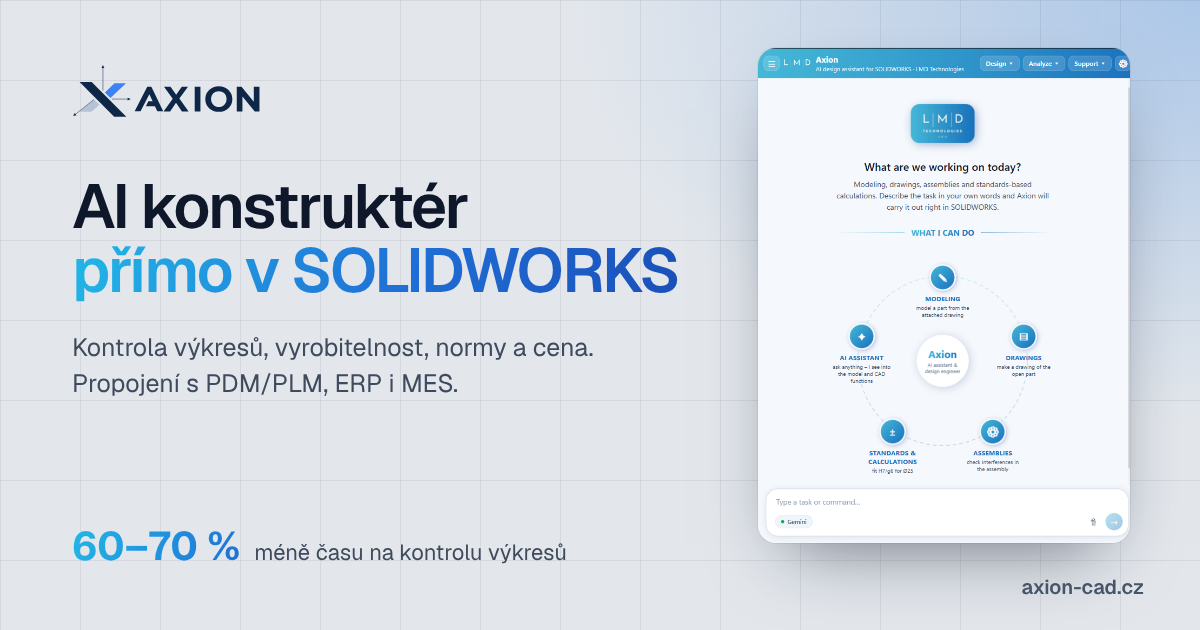
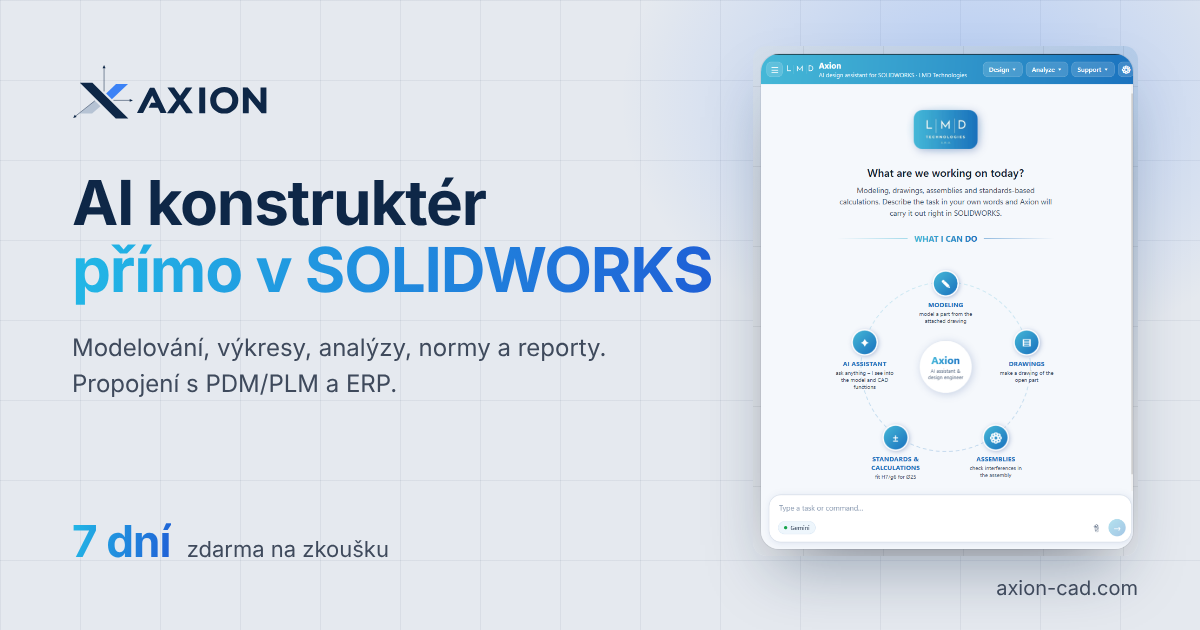
SEO: Axion jako AI asistent pro CAD (titulky a popisy bez důrazu na kontrolu výkresů), nové náhledy pro sdílení (og)
Claude-Session: https://claude.ai/code/session_01F1eiTEGDywuvSK7PdNHhFV

diff --git a/index.html b/index.html
@@ -3,8 +3,8 @@
 <head>
 <meta charset="utf-8">
 <!-- seo -->
-<title>AI assistant for SOLIDWORKS – drawing checks | Axion</title>
-<meta name="description" content="Axion is an AI design engineer inside SOLIDWORKS: drawing checks, manufacturability, standards and cost, connected to PDM/PLM, ERP and MES. Up to 60–70 % less time checking drawings.">
+<title>Axion – AI assistant for CAD in SOLIDWORKS</title>
+<meta name="description" content="Axion is an AI design assistant for CAD right inside SOLIDWORKS: modelling from text, images and drawings, drawings, analyses, standards and reports, connected to PDM/PLM and ERP. Try it free for 7 days.">
 <link rel="canonical" href="https://axion-cad.com/">
 <link rel="alternate" hreflang="en" href="https://axion-cad.com/">
 <link rel="alternate" hreflang="cs" href="https://axion-cad.com/cs/">
@@ -12,17 +12,17 @@
 <meta property="og:type" content="website">
 <meta property="og:site_name" content="Axion">
 <meta property="og:locale" content="en_US">
-<meta property="og:title" content="AI assistant for SOLIDWORKS – drawing checks | Axion">
-<meta property="og:description" content="Axion is an AI design engineer inside SOLIDWORKS: drawing checks, manufacturability, standards and cost, connected to PDM/PLM, ERP and MES. Up to 60–70 % less time checking drawings.">
+<meta property="og:title" content="Axion – AI assistant for CAD in SOLIDWORKS">
+<meta property="og:description" content="Axion is an AI design assistant for CAD right inside SOLIDWORKS: modelling from text, images and drawings, drawings, analyses, standards and reports, connected to PDM/PLM and ERP. Try it free for 7 days.">
 <meta property="og:url" content="https://axion-cad.com/">
-<meta property="og:image" content="https://axion-cad.com/assets/og-en.png">
+<meta property="og:image" content="https://axion-cad.com/assets/og-en.png?v=2">
 <meta property="og:image:width" content="1200">
 <meta property="og:image:height" content="630">
 <meta name="twitter:card" content="summary_large_image">
 <link rel="icon" href="assets/favicon.svg" type="image/svg+xml">
 <link rel="apple-touch-icon" href="assets/apple-touch-icon.png">
 <meta name="theme-color" content="#1F6FD6">
-<script type="application/ld+json">{"@context": "https://schema.org", "@graph": [{"@type": "Organization", "@id": "https://www.lmd-technologies.cz/#org", "name": "LMD Technologies s.r.o.", "url": "https://www.lmd-technologies.cz", "email": "info@lmd-technologies.cz", "logo": "https://axion-cad.com/assets/img/lmd-technologies-s-r-o.png", "address": {"@type": "PostalAddress", "addressLocality": "Praha", "addressCountry": "CZ"}}, {"@type": "WebSite", "name": "Axion", "url": "https://axion-cad.com/", "inLanguage": "en", "publisher": {"@id": "https://www.lmd-technologies.cz/#org"}}, {"@type": "SoftwareApplication", "name": "Axion", "applicationCategory": "DesignApplication", "operatingSystem": "Windows", "url": "https://axion-cad.com/", "inLanguage": ["cs", "en"], "description": "Axion is an AI design engineer inside SOLIDWORKS: drawing checks, manufacturability, standards and cost, connected to PDM/PLM, ERP and MES. Up to 60–70 % less time checking drawings.", "publisher": {"@id": "https://www.lmd-technologies.cz/#org"}, "image": "https://axion-cad.com/assets/og-en.png"}]}</script>
+<script type="application/ld+json">{"@context": "https://schema.org", "@graph": [{"@type": "Organization", "@id": "https://www.lmd-technologies.cz/#org", "name": "LMD Technologies s.r.o.", "url": "https://www.lmd-technologies.cz", "email": "info@lmd-technologies.cz", "logo": "https://axion-cad.com/assets/img/lmd-technologies-s-r-o.png", "address": {"@type": "PostalAddress", "addressLocality": "Praha", "addressCountry": "CZ"}}, {"@type": "WebSite", "name": "Axion", "url": "https://axion-cad.com/", "inLanguage": "en", "publisher": {"@id": "https://www.lmd-technologies.cz/#org"}}, {"@type": "SoftwareApplication", "name": "Axion", "applicationCategory": "DesignApplication", "operatingSystem": "Windows", "url": "https://axion-cad.com/", "inLanguage": ["cs", "en"], "description": "Axion is an AI design assistant for CAD right inside SOLIDWORKS: modelling from text, images and drawings, drawings, analyses, standards and reports, connected to PDM/PLM and ERP. Try it free for 7 days.", "publisher": {"@id": "https://www.lmd-technologies.cz/#org"}, "image": "https://axion-cad.com/assets/og-en.png"}]}</script>
 <meta name="seznam-wmt" content="bSFUqpU7w6FnbOcUHECLMPJb2pOOMLrl">
 <!-- /seo -->
 <meta name="viewport" content="width=device-width,initial-scale=1,viewport-fit=cover">

diff --git a/cs/index.html b/cs/index.html
@@ -4,8 +4,8 @@
 <head>
 <meta charset="utf-8"/>
 <!-- seo -->
-<title>AI asistent pro SOLIDWORKS – kontrola výkresů | Axion</title>
-<meta name="description" content="Axion je AI konstruktér přímo v SOLIDWORKS: kontrola výkresů, vyrobitelnost, normy a cena, propojení s PDM/PLM, ERP a MES. O 60–70 % méně času na kontrolu výkresů.">
+<title>Axion – AI asistent pro CAD v SOLIDWORKS</title>
+<meta name="description" content="Axion je AI asistent pro CAD přímo v SOLIDWORKS: modelování z textu, obrázku i výkresu, výkresy, analýzy, normy a reporty, propojení s PDM/PLM a ERP. Vyzkoušejte ho 7 dní zdarma.">
 <link rel="canonical" href="https://axion-cad.com/cs/">
 <link rel="alternate" hreflang="en" href="https://axion-cad.com/">
 <link rel="alternate" hreflang="cs" href="https://axion-cad.com/cs/">
@@ -13,17 +13,17 @@
 <meta property="og:type" content="website">
 <meta property="og:site_name" content="Axion">
 <meta property="og:locale" content="cs_CZ">
-<meta property="og:title" content="AI asistent pro SOLIDWORKS – kontrola výkresů | Axion">
-<meta property="og:description" content="Axion je AI konstruktér přímo v SOLIDWORKS: kontrola výkresů, vyrobitelnost, normy a cena, propojení s PDM/PLM, ERP a MES. O 60–70 % méně času na kontrolu výkresů.">
+<meta property="og:title" content="Axion – AI asistent pro CAD v SOLIDWORKS">
+<meta property="og:description" content="Axion je AI asistent pro CAD přímo v SOLIDWORKS: modelování z textu, obrázku i výkresu, výkresy, analýzy, normy a reporty, propojení s PDM/PLM a ERP. Vyzkoušejte ho 7 dní zdarma.">
 <meta property="og:url" content="https://axion-cad.com/cs/">
-<meta property="og:image" content="https://axion-cad.com/assets/og-cs.png">
+<meta property="og:image" content="https://axion-cad.com/assets/og-cs.png?v=2">
 <meta property="og:image:width" content="1200">
 <meta property="og:image:height" content="630">
 <meta name="twitter:card" content="summary_large_image">
 <link rel="icon" href="../assets/favicon.svg" type="image/svg+xml">
 <link rel="apple-touch-icon" href="../assets/apple-touch-icon.png">
 <meta name="theme-color" content="#1F6FD6">
-<script type="application/ld+json">{"@context": "https://schema.org", "@graph": [{"@type": "Organization", "@id": "https://www.lmd-technologies.cz/#org", "name": "LMD Technologies s.r.o.", "url": "https://www.lmd-technologies.cz", "email": "info@lmd-technologies.cz", "logo": "https://axion-cad.com/assets/img/lmd-technologies-s-r-o.png", "address": {"@type": "PostalAddress", "addressLocality": "Praha", "addressCountry": "CZ"}}, {"@type": "WebSite", "name": "Axion", "url": "https://axion-cad.com/cs/", "inLanguage": "cs", "publisher": {"@id": "https://www.lmd-technologies.cz/#org"}}, {"@type": "SoftwareApplication", "name": "Axion", "applicationCategory": "DesignApplication", "operatingSystem": "Windows", "url": "https://axion-cad.com/cs/", "inLanguage": ["cs", "en"], "description": "Axion je AI konstruktér přímo v SOLIDWORKS: kontrola výkresů, vyrobitelnost, normy a cena, propojení s PDM/PLM, ERP a MES. O 60–70 % méně času na kontrolu výkresů.", "publisher": {"@id": "https://www.lmd-technologies.cz/#org"}, "image": "https://axion-cad.com/assets/og-cs.png"}]}</script>
+<script type="application/ld+json">{"@context": "https://schema.org", "@graph": [{"@type": "Organization", "@id": "https://www.lmd-technologies.cz/#org", "name": "LMD Technologies s.r.o.", "url": "https://www.lmd-technologies.cz", "email": "info@lmd-technologies.cz", "logo": "https://axion-cad.com/assets/img/lmd-technologies-s-r-o.png", "address": {"@type": "PostalAddress", "addressLocality": "Praha", "addressCountry": "CZ"}}, {"@type": "WebSite", "name": "Axion", "url": "https://axion-cad.com/cs/", "inLanguage": "cs", "publisher": {"@id": "https://www.lmd-technologies.cz/#org"}}, {"@type": "SoftwareApplication", "name": "Axion", "applicationCategory": "DesignApplication", "operatingSystem": "Windows", "url": "https://axion-cad.com/cs/", "inLanguage": ["cs", "en"], "description": "Axion je AI asistent pro CAD přímo v SOLIDWORKS: modelování z textu, obrázku i výkresu, výkresy, analýzy, normy a reporty, propojení s PDM/PLM a ERP. Vyzkoušejte ho 7 dní zdarma.", "publisher": {"@id": "https://www.lmd-technologies.cz/#org"}, "image": "https://axion-cad.com/assets/og-cs.png"}]}</script>
 <meta name="seznam-wmt" content="bSFUqpU7w6FnbOcUHECLMPJb2pOOMLrl">
 <!-- /seo -->
 <meta content="width=device-width,initial-scale=1,viewport-fit=cover" name="viewport"/>

diff --git a/features/index.html b/features/index.html
@@ -3,8 +3,8 @@
 <head>
 <meta charset="utf-8">
 <!-- seo -->
-<title>Features: drawing checks, manufacturability, standards | Axion</title>
-<meta name="description" content="What Axion does in SOLIDWORKS: reads live geometry and drawings, checks standards (ISO 2768, ISO 286) and manufacturability, estimates cost, generates drawings and finds similar parts.">
+<title>Features: AI modelling, drawings, analyses and standards | Axion</title>
+<meta name="description" content="What Axion does in SOLIDWORKS: models parts from text, images and drawings, generates drawings, analyses manufacturability and standards (ISO 2768, ISO 286), creates reports, finds similar parts and sends models to your phone in AR.">
 <link rel="canonical" href="https://axion-cad.com/features/">
 <link rel="alternate" hreflang="en" href="https://axion-cad.com/features/">
 <link rel="alternate" hreflang="cs" href="https://axion-cad.com/cs/funkce/">
@@ -12,10 +12,10 @@
 <meta property="og:type" content="website">
 <meta property="og:site_name" content="Axion">
 <meta property="og:locale" content="en_US">
-<meta property="og:title" content="Features: drawing checks, manufacturability, standards | Axion">
-<meta property="og:description" content="What Axion does in SOLIDWORKS: reads live geometry and drawings, checks standards (ISO 2768, ISO 286) and manufacturability, estimates cost, generates drawings and finds similar parts.">
+<meta property="og:title" content="Features: AI modelling, drawings, analyses and standards | Axion">
+<meta property="og:description" content="What Axion does in SOLIDWORKS: models parts from text, images and drawings, generates drawings, analyses manufacturability and standards (ISO 2768, ISO 286), creates reports, finds similar parts and sends models to your phone in AR.">
 <meta property="og:url" content="https://axion-cad.com/features/">
-<meta property="og:image" content="https://axion-cad.com/assets/og-en.png">
+<meta property="og:image" content="https://axion-cad.com/assets/og-en.png?v=2">
 <meta property="og:image:width" content="1200">
 <meta property="og:image:height" content="630">
 <meta name="twitter:card" content="summary_large_image">

diff --git a/cs/funkce/index.html b/cs/funkce/index.html
@@ -4,8 +4,8 @@
 <head>
 <meta charset="utf-8"/>
 <!-- seo -->
-<title>Funkce: kontrola výkresů, vyrobitelnost, normy | Axion</title>
-<meta name="description" content="Co Axion umí v SOLIDWORKS: čte živou geometrii a výkresy, kontroluje normy (ISO 2768, ISO 286) a vyrobitelnost, odhadne cenu, generuje výkresy a najde podobné díly.">
+<title>Funkce: AI modelování, výkresy, analýzy a normy | Axion</title>
+<meta name="description" content="Co Axion umí v SOLIDWORKS: vymodeluje díl z textu, obrázku i výkresu, vygeneruje výkres, posoudí vyrobitelnost a normy (ISO 2768, ISO 286), připraví report, najde podobné díly a pošle model do telefonu v AR.">
 <link rel="canonical" href="https://axion-cad.com/cs/funkce/">
 <link rel="alternate" hreflang="en" href="https://axion-cad.com/features/">
 <link rel="alternate" hreflang="cs" href="https://axion-cad.com/cs/funkce/">
@@ -13,10 +13,10 @@
 <meta property="og:type" content="website">
 <meta property="og:site_name" content="Axion">
 <meta property="og:locale" content="cs_CZ">
-<meta property="og:title" content="Funkce: kontrola výkresů, vyrobitelnost, normy | Axion">
-<meta property="og:description" content="Co Axion umí v SOLIDWORKS: čte živou geometrii a výkresy, kontroluje normy (ISO 2768, ISO 286) a vyrobitelnost, odhadne cenu, generuje výkresy a najde podobné díly.">
+<meta property="og:title" content="Funkce: AI modelování, výkresy, analýzy a normy | Axion">
+<meta property="og:description" content="Co Axion umí v SOLIDWORKS: vymodeluje díl z textu, obrázku i výkresu, vygeneruje výkres, posoudí vyrobitelnost a normy (ISO 2768, ISO 286), připraví report, najde podobné díly a pošle model do telefonu v AR.">
 <meta property="og:url" content="https://axion-cad.com/cs/funkce/">
-<meta property="og:image" content="https://axion-cad.com/assets/og-cs.png">
+<meta property="og:image" content="https://axion-cad.com/assets/og-cs.png?v=2">
 <meta property="og:image:width" content="1200">
 <meta property="og:image:height" content="630">
 <meta name="twitter:card" content="summary_large_image">

diff --git a/cs/z-praxe/index.html b/cs/z-praxe/index.html
@@ -4,7 +4,7 @@
 <head>
 <meta charset="utf-8"/>
 <!-- seo -->
-<title>Z praxe: AI kontrola výkresu a návrhu dílu | Axion</title>
+<title>Z praxe: Axion na skutečných dílech a výkresech | Axion</title>
 <meta name="description" content="Needitované odpovědi Axionu na skutečných dílech a výkresech: vyrobitelnost hřídele, chyby v GD&T, kontrola plechového dílu a modelování z textu nebo obrázku.">
 <link rel="canonical" href="https://axion-cad.com/cs/z-praxe/">
 <link rel="alternate" hreflang="en" href="https://axion-cad.com/cases/">
@@ -13,10 +13,10 @@
 <meta property="og:type" content="website">
 <meta property="og:site_name" content="Axion">
 <meta property="og:locale" content="cs_CZ">
-<meta property="og:title" content="Z praxe: AI kontrola výkresu a návrhu dílu | Axion">
+<meta property="og:title" content="Z praxe: Axion na skutečných dílech a výkresech | Axion">
 <meta property="og:description" content="Needitované odpovědi Axionu na skutečných dílech a výkresech: vyrobitelnost hřídele, chyby v GD&T, kontrola plechového dílu a modelování z textu nebo obrázku.">
 <meta property="og:url" content="https://axion-cad.com/cs/z-praxe/">
-<meta property="og:image" content="https://axion-cad.com/assets/og-cs.png">
+<meta property="og:image" content="https://axion-cad.com/assets/og-cs.png?v=2">
 <meta property="og:image:width" content="1200">
 <meta property="og:image:height" content="630">
 <meta name="twitter:card" content="summary_large_image">

diff --git a/cases/index.html b/cases/index.html
@@ -3,7 +3,7 @@
 <head>
 <meta charset="utf-8">
 <!-- seo -->
-<title>Real cases: AI drawing review and design checks | Axion</title>
+<title>Real cases: Axion on real parts and drawings | Axion</title>
 <meta name="description" content="Unedited Axion answers on real parts and drawings: manufacturability of a shaft drawing, GD&T errors, sheet-metal design review and modeling from text or an image.">
 <link rel="canonical" href="https://axion-cad.com/cases/">
 <link rel="alternate" hreflang="en" href="https://axion-cad.com/cases/">
@@ -12,10 +12,10 @@
 <meta property="og:type" content="website">
 <meta property="og:site_name" content="Axion">
 <meta property="og:locale" content="en_US">
-<meta property="og:title" content="Real cases: AI drawing review and design checks | Axion">
+<meta property="og:title" content="Real cases: Axion on real parts and drawings | Axion">
 <meta property="og:description" content="Unedited Axion answers on real parts and drawings: manufacturability of a shaft drawing, GD&T errors, sheet-metal design review and modeling from text or an image.">
 <meta property="og:url" content="https://axion-cad.com/cases/">
-<meta property="og:image" content="https://axion-cad.com/assets/og-en.png">
+<meta property="og:image" content="https://axion-cad.com/assets/og-en.png?v=2">
 <meta property="og:image:width" content="1200">
 <meta property="og:image:height" content="630">
 <meta name="twitter:card" content="summary_large_image">

diff --git a/cs/nasazeni/index.html b/cs/nasazeni/index.html
@@ -16,7 +16,7 @@
 <meta property="og:title" content="Nasazení AI do konstrukce na míru a bezpečně | Axion">
 <meta property="og:description" content="Jak Axion stavíme pro vaši firmu: úvodní schůzka, pilot na vašich dílech, nasazení. Lokálně od základu, vlastní API klíč k AI (Claude, ChatGPT, Gemini, Mistral) a nízké náklady.">
 <meta property="og:url" content="https://axion-cad.com/cs/nasazeni/">
-<meta property="og:image" content="https://axion-cad.com/assets/og-cs.png">
+<meta property="og:image" content="https://axion-cad.com/assets/og-cs.png?v=2">
 <meta property="og:image:width" content="1200">
 <meta property="og:image:height" content="630">
 <meta name="twitter:card" content="summary_large_image">

diff --git a/integrations/index.html b/integrations/index.html
@@ -15,7 +15,7 @@
 <meta property="og:title" content="Connect SOLIDWORKS with PDM/PLM, ERP (SAP, Helios) and MES | Axion">
 <meta property="og:description" content="Axion brings CAD, PDM/PLM, ERP (SAP, Helios), MES, production, quality and documentation together in one interface. It writes only to PDM/PLM and reads other systems via API.">
 <meta property="og:url" content="https://axion-cad.com/integrations/">
-<meta property="og:image" content="https://axion-cad.com/assets/og-en.png">
+<meta property="og:image" content="https://axion-cad.com/assets/og-en.png?v=2">
 <meta property="og:image:width" content="1200">
 <meta property="og:image:height" content="630">
 <meta name="twitter:card" content="summary_large_image">

diff --git a/deployment/index.html b/deployment/index.html
@@ -15,7 +15,7 @@
 <meta property="og:title" content="Deploying AI in engineering, tailored and local-first | Axion">
 <meta property="og:description" content="How Axion is built for your company: kick-off, pilot on your parts, rollout. Local-first security, your own AI API key (Claude, ChatGPT, Gemini, Mistral) and low running costs.">
 <meta property="og:url" content="https://axion-cad.com/deployment/">
-<meta property="og:image" content="https://axion-cad.com/assets/og-en.png">
+<meta property="og:image" content="https://axion-cad.com/assets/og-en.png?v=2">
 <meta property="og:image:width" content="1200">
 <meta property="og:image:height" content="630">
 <meta name="twitter:card" content="summary_large_image">

diff --git a/cs/propojeni/index.html b/cs/propojeni/index.html
@@ -16,7 +16,7 @@
 <meta property="og:title" content="Propojení SOLIDWORKS s PDM/PLM, ERP (SAP, Helios) a MES | Axion">
 <meta property="og:description" content="Axion spojí CAD, PDM/PLM, ERP (SAP, Helios), MES, výrobu, kvalitu i dokumentaci v jednom rozhraní. Zapisuje jen do PDM/PLM, ostatní systémy čte přes API.">
 <meta property="og:url" content="https://axion-cad.com/cs/propojeni/">
-<meta property="og:image" content="https://axion-cad.com/assets/og-cs.png">
+<meta property="og:image" content="https://axion-cad.com/assets/og-cs.png?v=2">
 <meta property="og:image:width" content="1200">
 <meta property="og:image:height" content="630">
 <meta name="twitter:card" content="summary_large_image">

diff --git a/cs/stazeni/index.html b/cs/stazeni/index.html
@@ -16,7 +16,7 @@
 <meta property="og:title" content="Stáhnout Axion – 7 dní zdarma pro SOLIDWORKS | Axion">
 <meta property="og:description" content="Vyzkoušejte Axion, AI asistenta konstruktéra v SOLIDWORKS, 7 dní zdarma na vlastních dílech a výkresech. Odkaz ke stažení a aktivační klíč e-mailem.">
 <meta property="og:url" content="https://axion-cad.com/cs/stazeni/">
-<meta property="og:image" content="https://axion-cad.com/assets/og-cs.png">
+<meta property="og:image" content="https://axion-cad.com/assets/og-cs.png?v=2">
 <meta property="og:image:width" content="1200">
 <meta property="og:image:height" content="630">
 <meta name="twitter:card" content="summary_large_image">

diff --git a/pricing/index.html b/pricing/index.html
@@ -15,7 +15,7 @@
 <meta property="og:title" content="Pricing: Start, Plus and Pro plans | Axion">
 <meta property="og:description" content="Axion plans for SOLIDWORKS designers: Start without AI, Plus with the AI design assistant, Pro for demanding engineers. Monthly or yearly, prices incl. VAT, cancel anytime.">
 <meta property="og:url" content="https://axion-cad.com/pricing/">
-<meta property="og:image" content="https://axion-cad.com/assets/og-en.png">
+<meta property="og:image" content="https://axion-cad.com/assets/og-en.png?v=2">
 <meta property="og:image:width" content="1200">
 <meta property="og:image:height" content="630">
 <meta name="twitter:card" content="summary_large_image">
